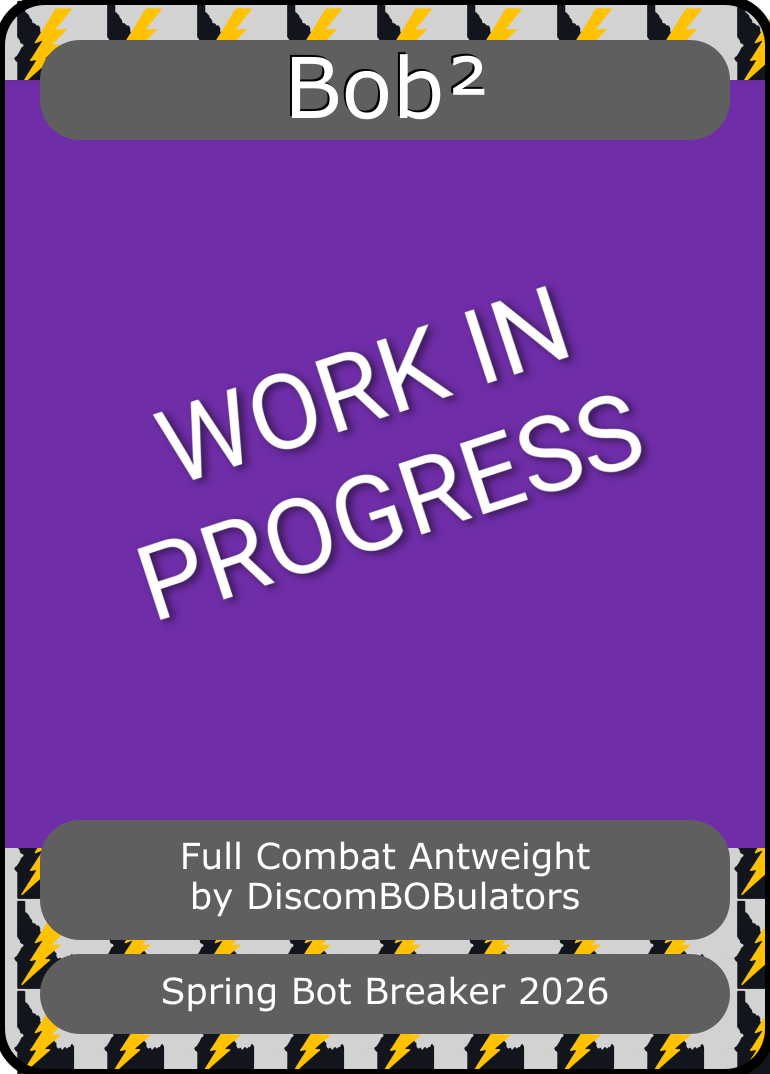
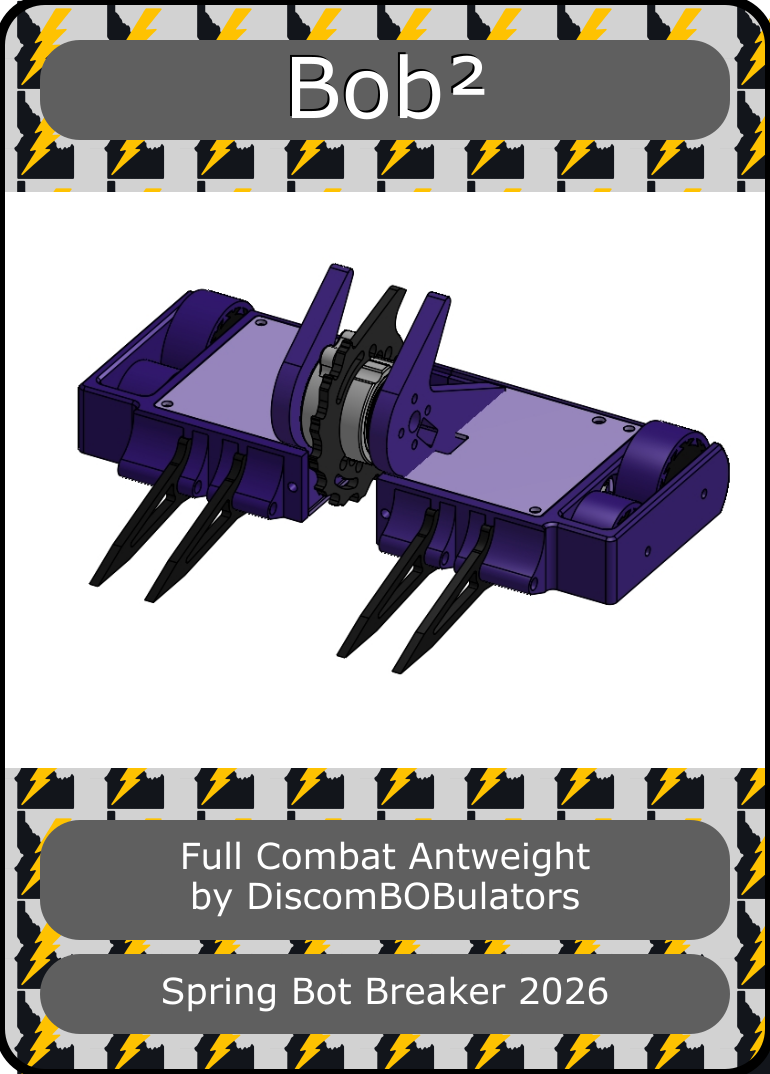
up to date

diff --git a/cards/IRCL_TTDB.md b/cards/IRCL_TTDB.md
@@ -259,7 +259,7 @@ Bot - Team
 - Weight class: Full Combat Antweight
 - Team: Tele Present Tense
 - URL: https://www.robotcombatevents.com/groups/3652/resources/17217
-- Image: ![ICU2](https://robotcombatevents.s3.amazonaws.com/uploads/resource/photo/17217/ICU2_Medium_2.png)
+- Image: ![ICU2](https://robotcombatevents.s3.amazonaws.com/uploads/resource/photo/17217/ICU2.jpeg)
 
 ---
 
@@ -319,7 +319,7 @@ Bot - Team
 - Card image: ![Bob²](Spring_Bot_Breaker_2026/Bob2.png)
 - Weight class: Full Combat Antweight
 - Team: DiscomBOBulators
-- Image: ![Bob²](https://robotcombatevents.s3.amazonaws.com/uploads/resource/photo/26097/Screenshot_20260223_215306_Google_2.jpg)
+- Image: ![Bob²](https://robotcombatevents.s3.amazonaws.com/uploads/resource/photo/26097/SmartSelect_20260325_112505_Onshape.jpg)
 
 ---
 
@@ -448,7 +448,7 @@ Bot - Team
 @LAT0LON-70 | created:1774396800 | updated:1774396800 | relates:competes_in>@LAT-45LON-10
 
 ## Grave Line
-- Card image: ![Grave Line](Spring_Bot_Breaker_2026/Graveline.png)
+- Card image: ![Grave Line](Spring_Bot_Breaker_2026/Grave_Line.png)
 - Weight class: Plastic Antweight
 - Team: Voidout
 - Image: ![Grave Line](https://ircl-io.github.io/cards/cards/Spring_Bot_Breaker_2026/IRCL_SBB2026-2.jpg)
